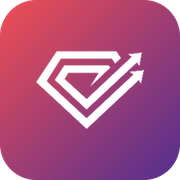
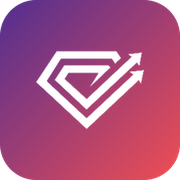
fix: reverse Caliber transformation gradient

diff --git a/src/brand-theme.css b/src/brand-theme.css
@@ -6,8 +6,8 @@
   --brand-green-soft: #e4f2e9;
   --brand-red: #f04e53;
   --brand-red-soft: #fdebec;
-  --brand-gradient: linear-gradient(125deg, #f04e53 0%, #b72d6e 48%, #522e90 100%);
-  --brand-gradient-hover: linear-gradient(125deg, #e53f4a 0%, #a92566 48%, #452579 100%);
+  --brand-gradient: linear-gradient(125deg, #522e90 0%, #b72d6e 52%, #f04e53 100%);
+  --brand-gradient-hover: linear-gradient(125deg, #452579 0%, #a92566 52%, #e53f4a 100%);
   --ink: #2b2233;
   --muted: #766a7c;
   --line: #eadde7;

diff --git a/src/app-version.js b/src/app-version.js
@@ -1,1 +1,1 @@
-export const APP_VERSION = "b499bc0e-5a9c-44fd-b8be-61a512b40096";
+export const APP_VERSION = "f3a58f2f-90f0-4c79-b096-5b5410484d45";
